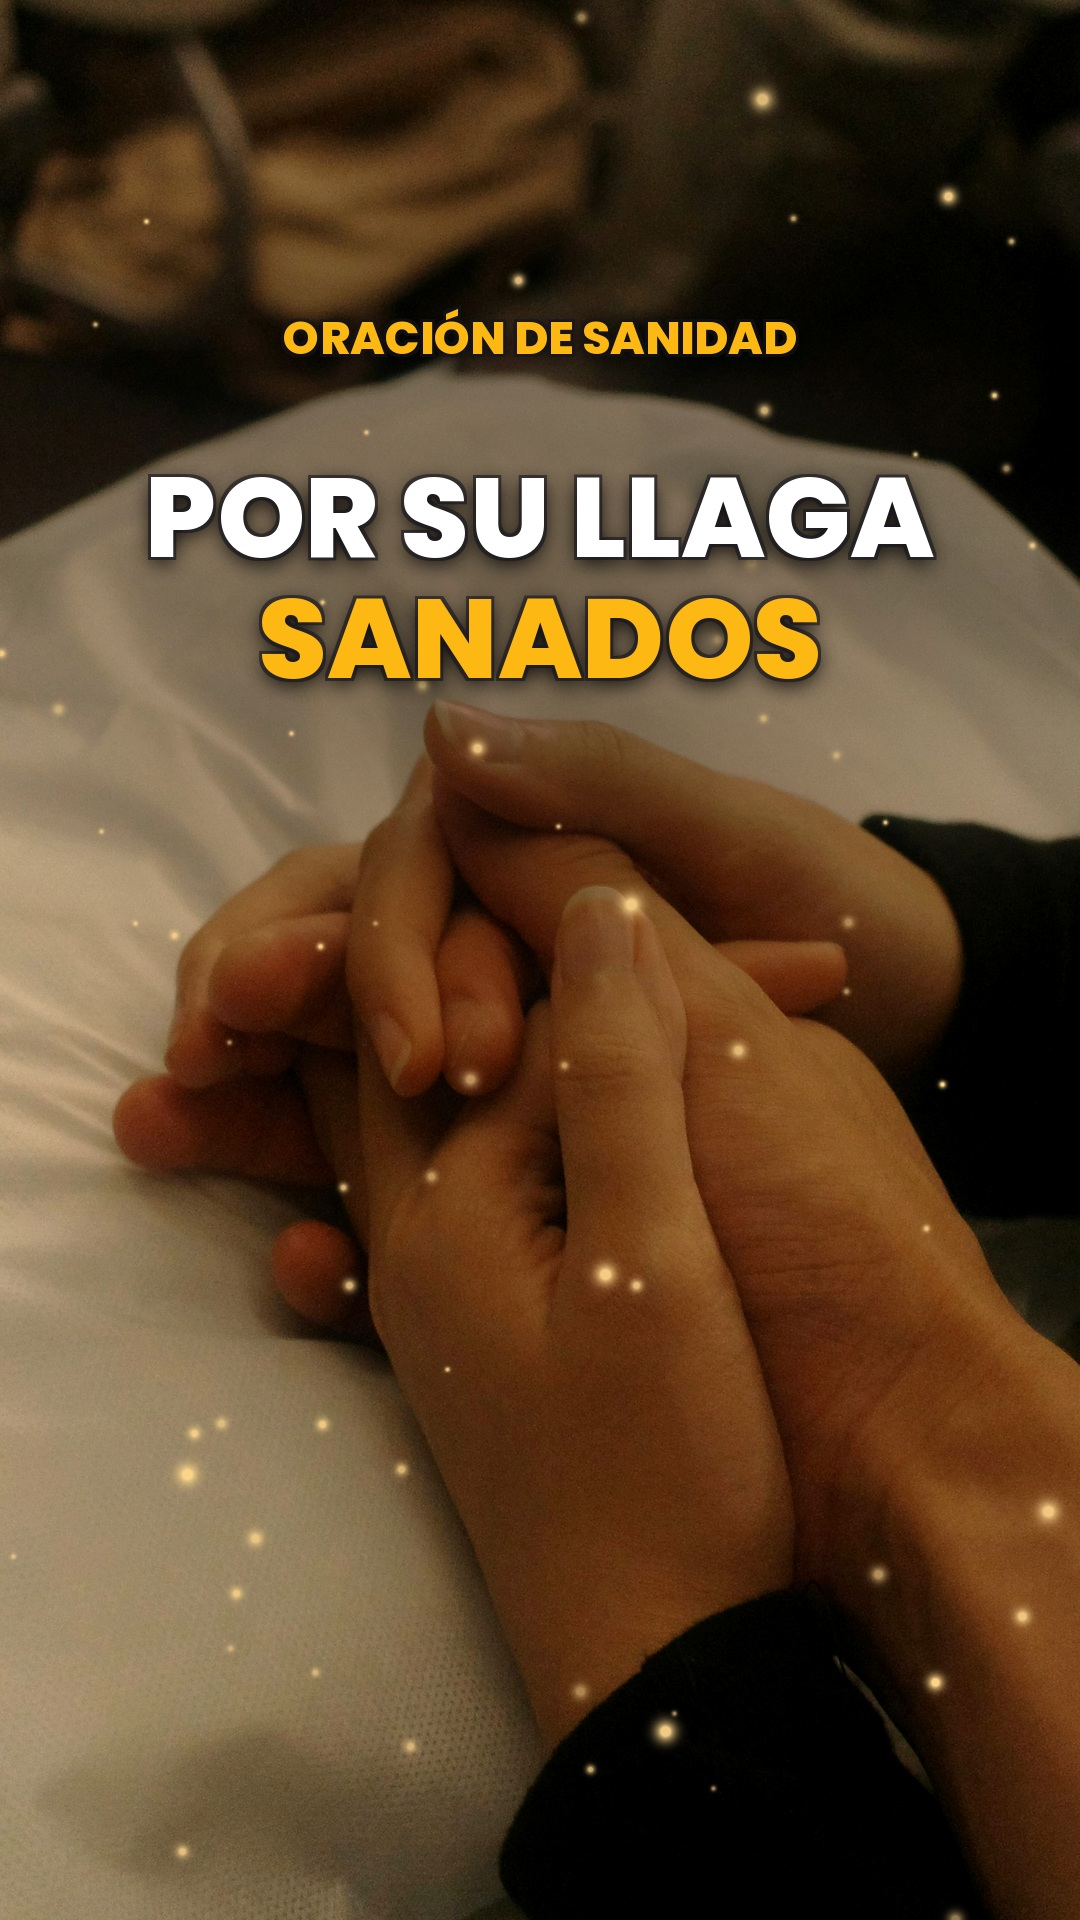
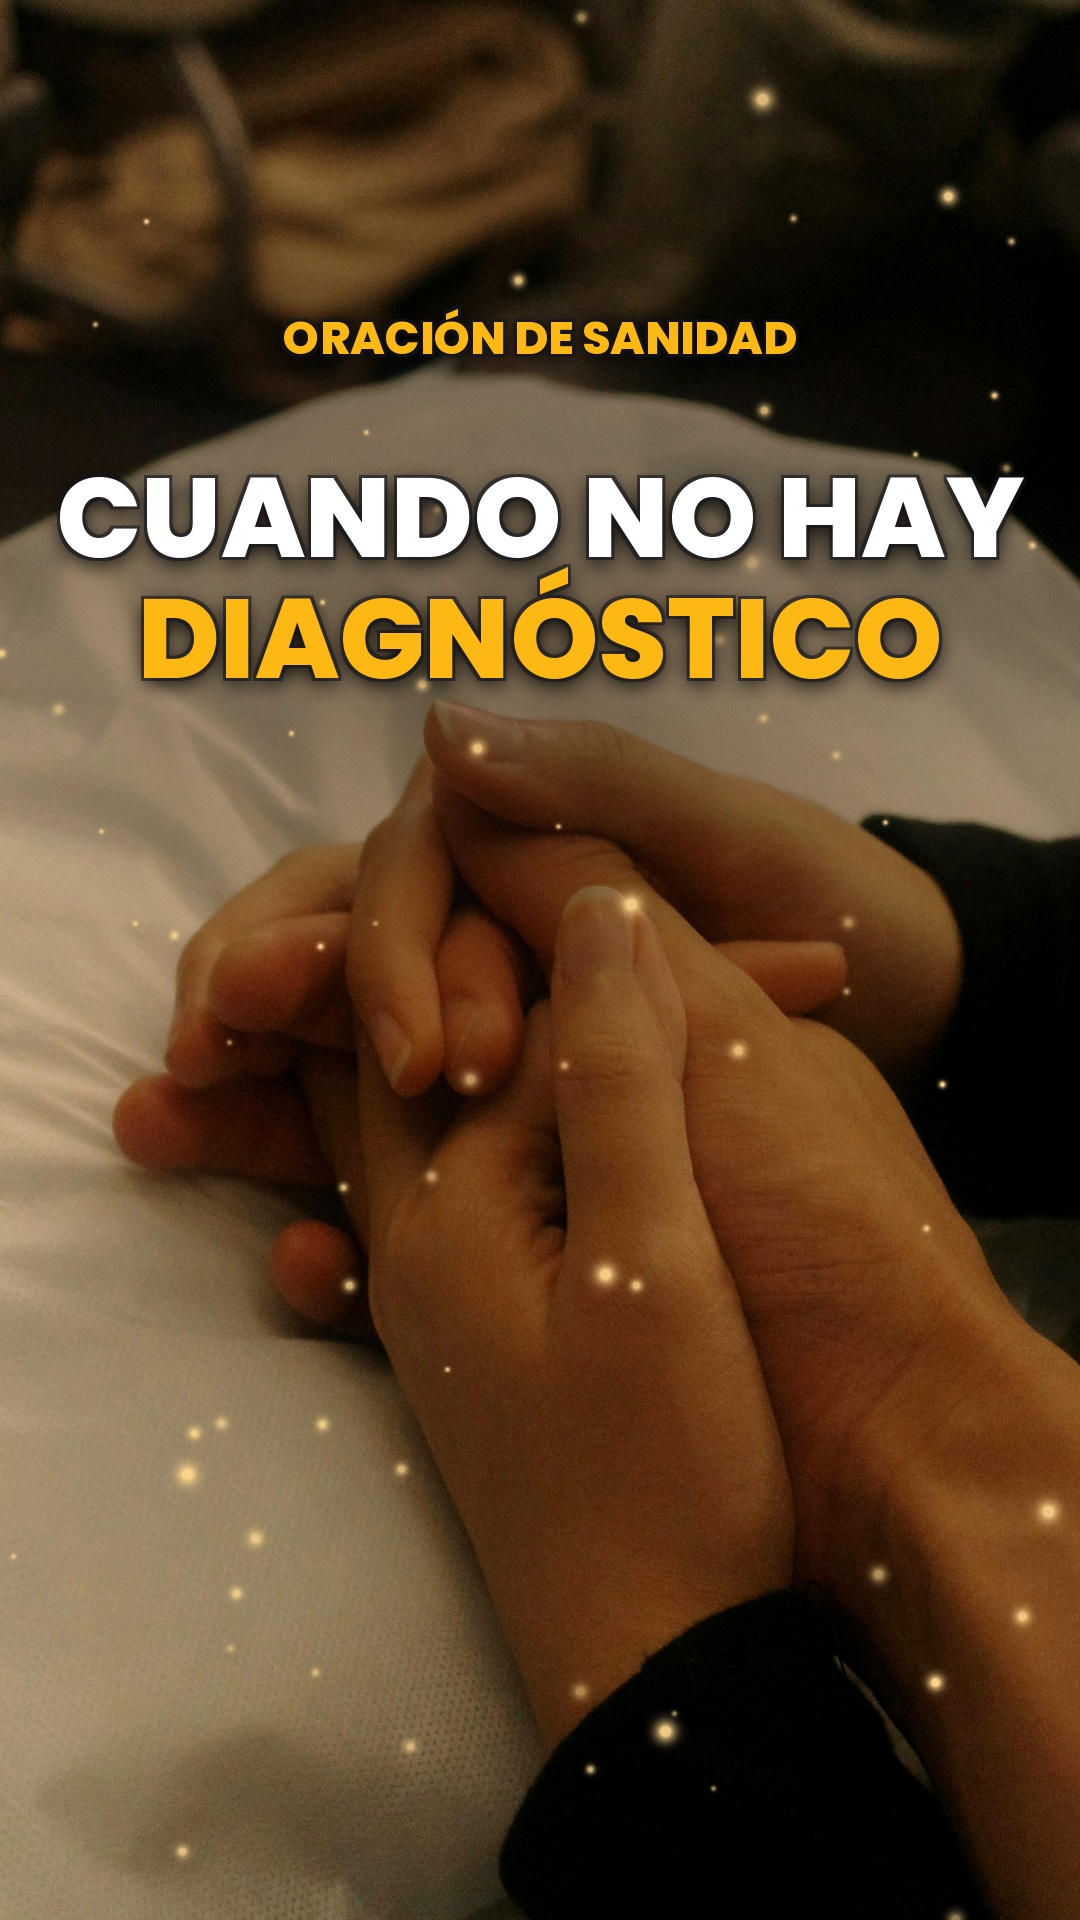
Portada con el título «Cuando no hay diagnóstico»
Claude-Session: https://claude.ai/code/session_01VuQhMyPPNJFzQMys37Pe88

Changed region(s): [[0.0306, 0.25, 0.9472, 0.375]]

diff --git a/videos/04-sin-diagnostico/miniatura_short.py b/videos/04-sin-diagnostico/miniatura_short.py
@@ -1,4 +1,4 @@
-"""Portada vertical del Short «Por su llaga sanados», con el estilo fijo de los Shorts del canal.
+"""Portada vertical del Short «Cuando no hay diagnóstico», con el estilo fijo de los Shorts del canal.
 
 Uso: python3 -I miniatura_short.py <foto.jpg> <carpeta_fuentes> <salida.jpg>
 """
@@ -52,6 +52,6 @@ def texto(lineas, px, y_centro, interlinea=1.08):
     return out
 
 im.alpha_composite(texto([[("ORACIÓN", True), ("DE", True), ("SANIDAD", True)]], 46, 330))
-im.alpha_composite(texto([[("POR", False), ("SU", False), ("LLAGA", False)], [("SANADOS", True)]], 112, 560))
+im.alpha_composite(texto([[("CUANDO", False), ("NO", False), ("HAY", False)], [("DIAGNÓSTICO", True)]], 112, 560))
 im.convert("RGB").save(SALIDA, quality=94)
 print("listo", SALIDA)
